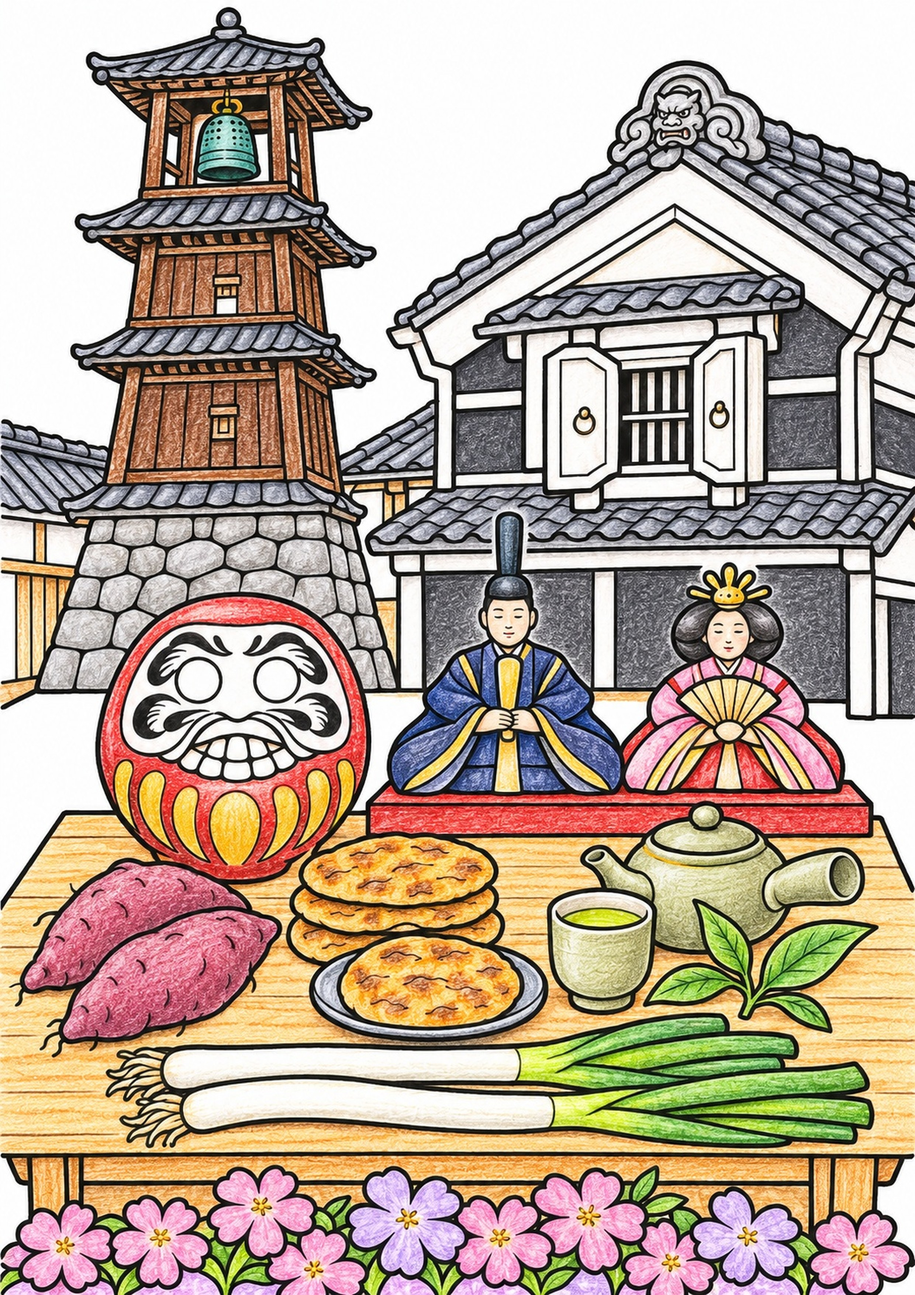
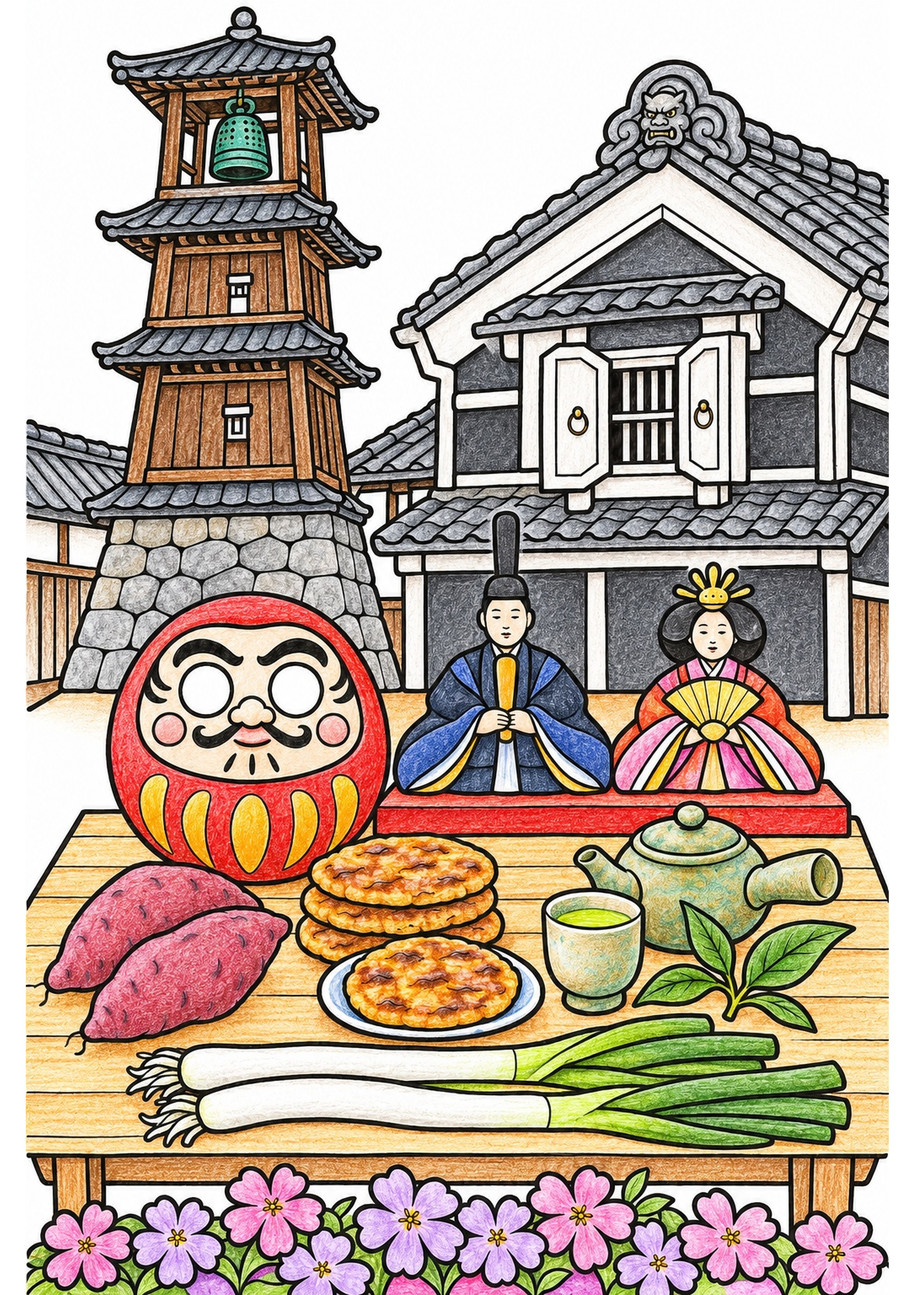
埼玉のだるまを差し替え、色見本を作り直し
Claude-Session: https://claude.ai/code/session_01EPRbSRQa794dv8MzVMgYda

diff --git a/data.js b/data.js
@@ -1309,5 +1309,5 @@ window.NURIE_LIST = [
   { kind: "脳トレ", season: "通年", genre: "クイズ", title: "昭和の歌手と名曲 線つなぎ その4", file: "showa_kayou_sen4.png", answer: "showa_kayou_sen4_ans.png", added: "2026-11", date: "2026-11-06" },
   { kind: "脳トレ", season: "通年", genre: "クイズ", title: "昭和の歌手と名曲 線つなぎ その5", file: "showa_kayou_sen5.png", answer: "showa_kayou_sen5_ans.png", added: "2026-11", date: "2026-11-06" },
   { season: "通年", genre: "風景", title: "竜宮城と玉手箱", diff: "上級", file: "ryugujo_tamatebako_jo.png", sample: "ryugujo_tamatebako_jo_sample.jpg", added: "2026-11", date: "2026-11-06", v: "1793950323434" },
-  { season: "通年", genre: "風景", title: "埼玉", diff: "中級", file: "saitama_chu.png", sample: "saitama_chu_sample.jpg", added: "2026-11", date: "2026-11-06", v: "1793952005905" },
+  { season: "通年", genre: "風景", title: "埼玉", diff: "中級", file: "saitama_chu.png", sample: "saitama_chu_sample.jpg", added: "2026-11", date: "2026-11-06", v: "1793953529786" },
 ];
